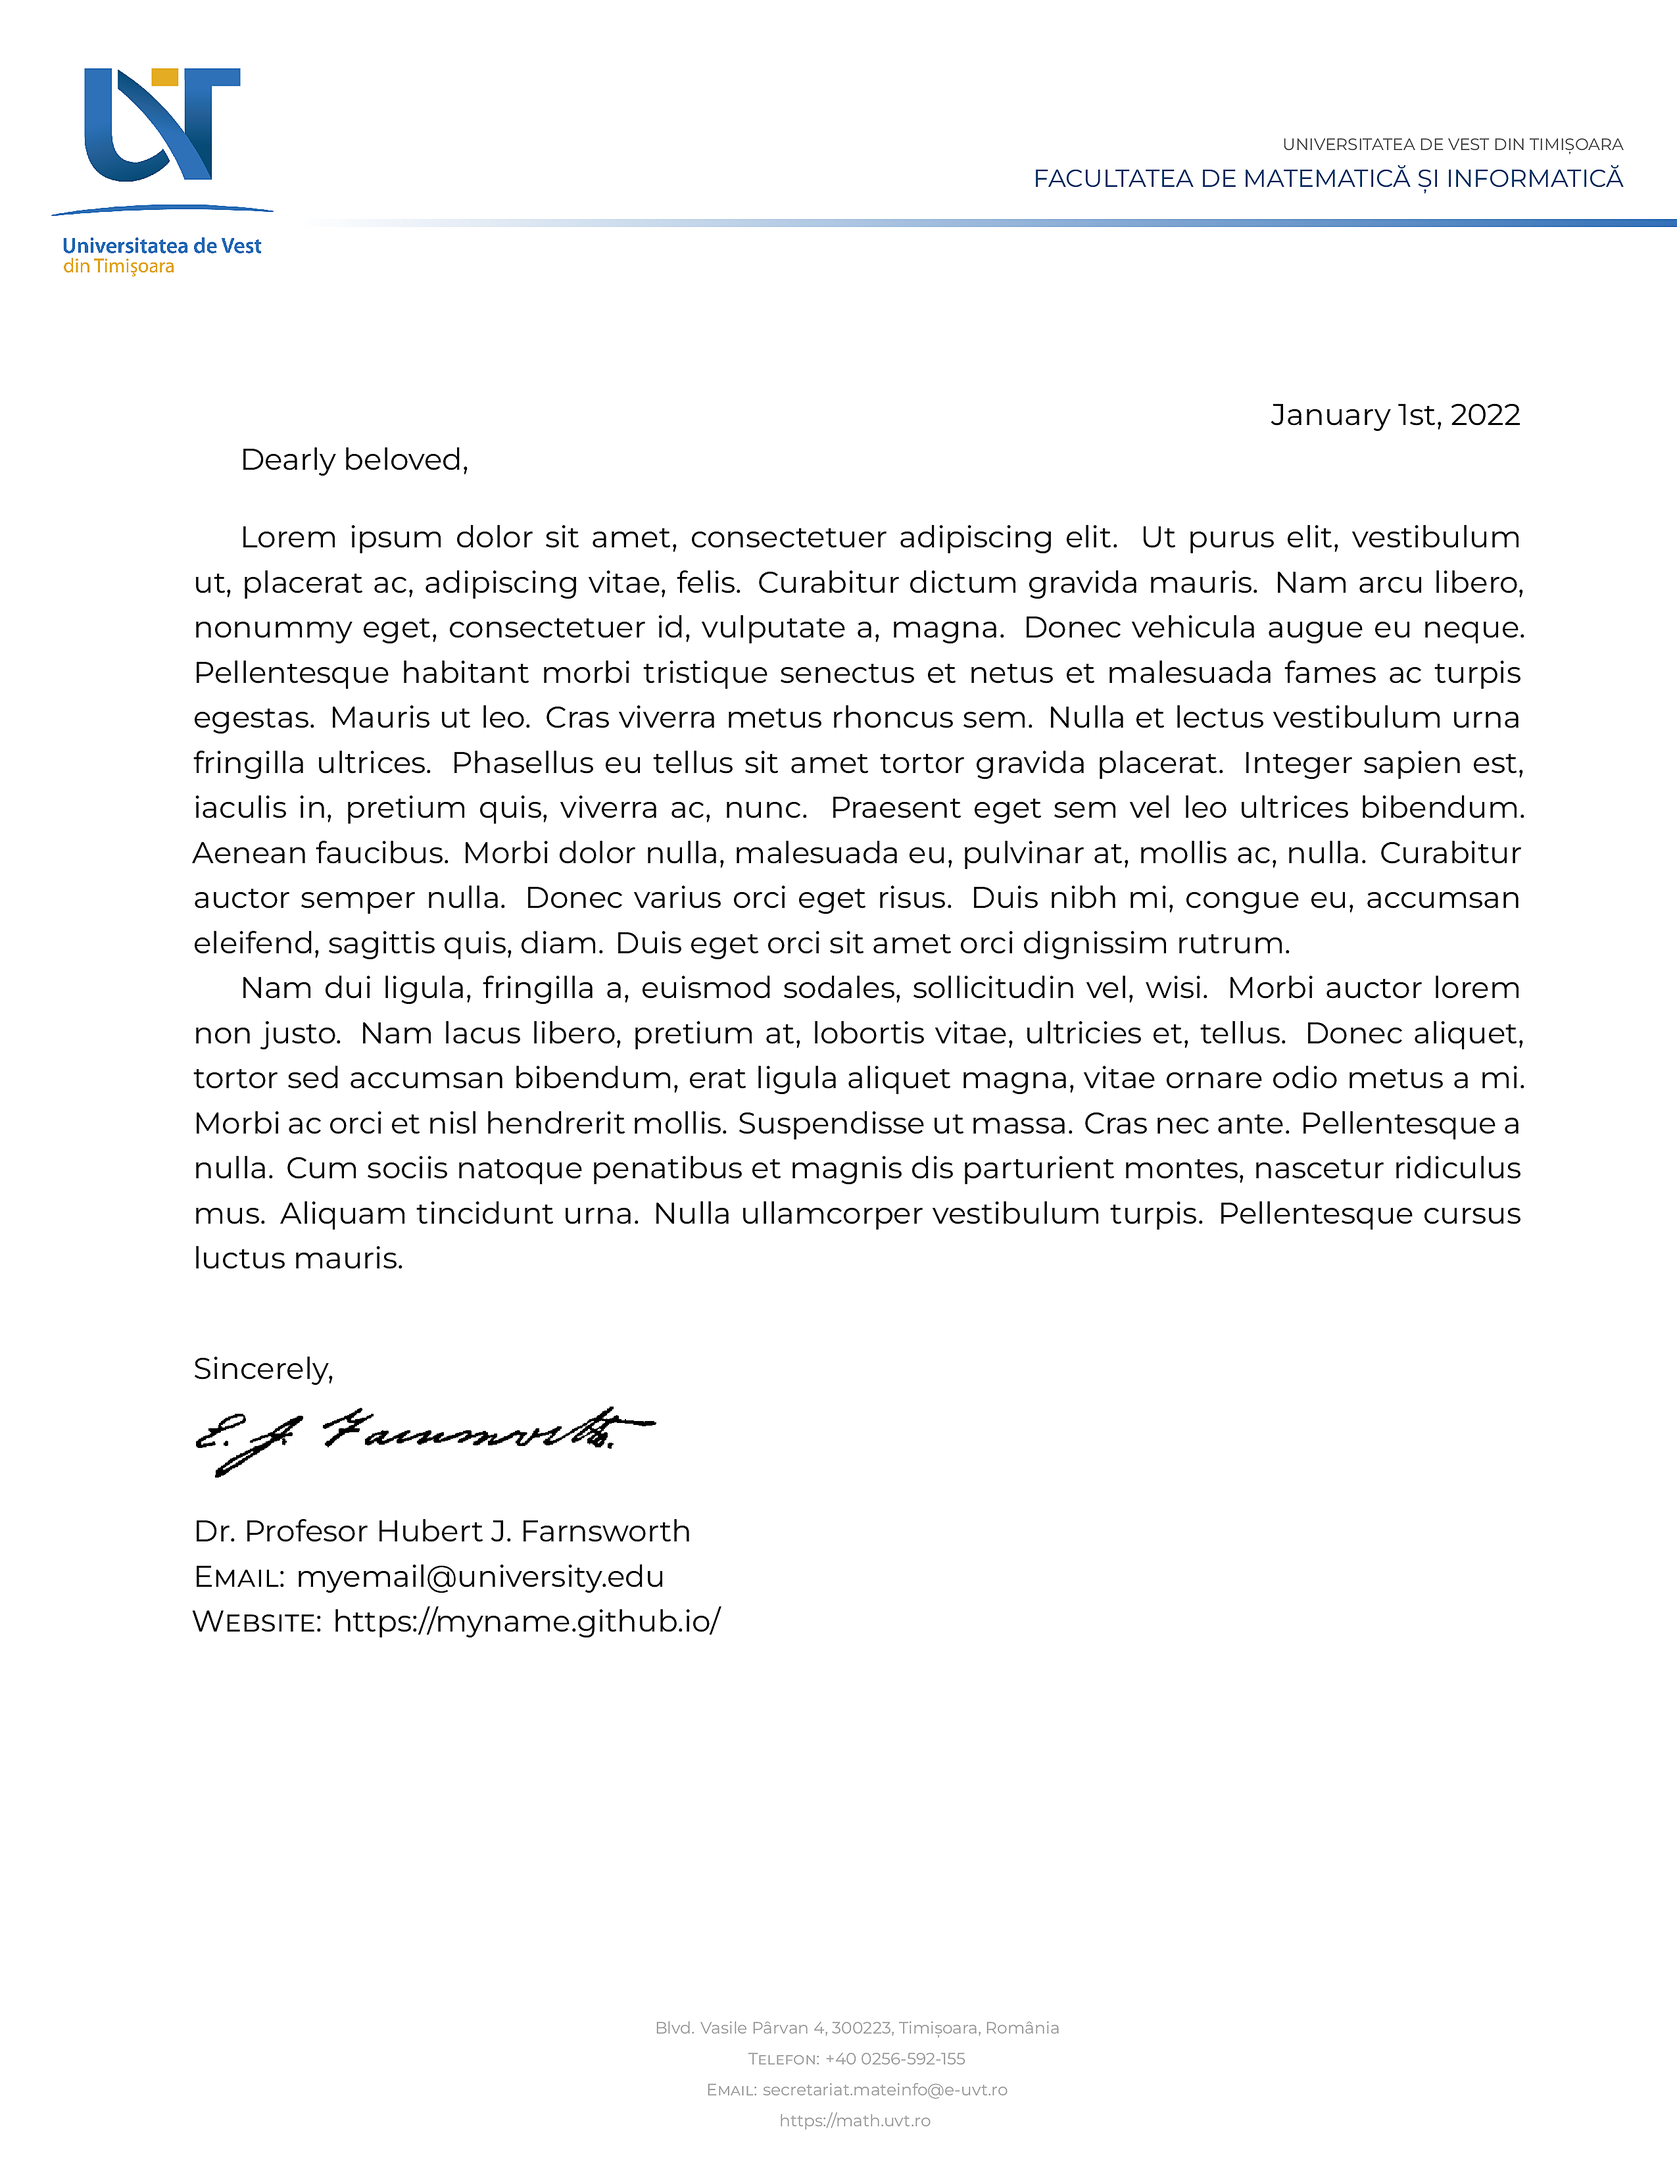
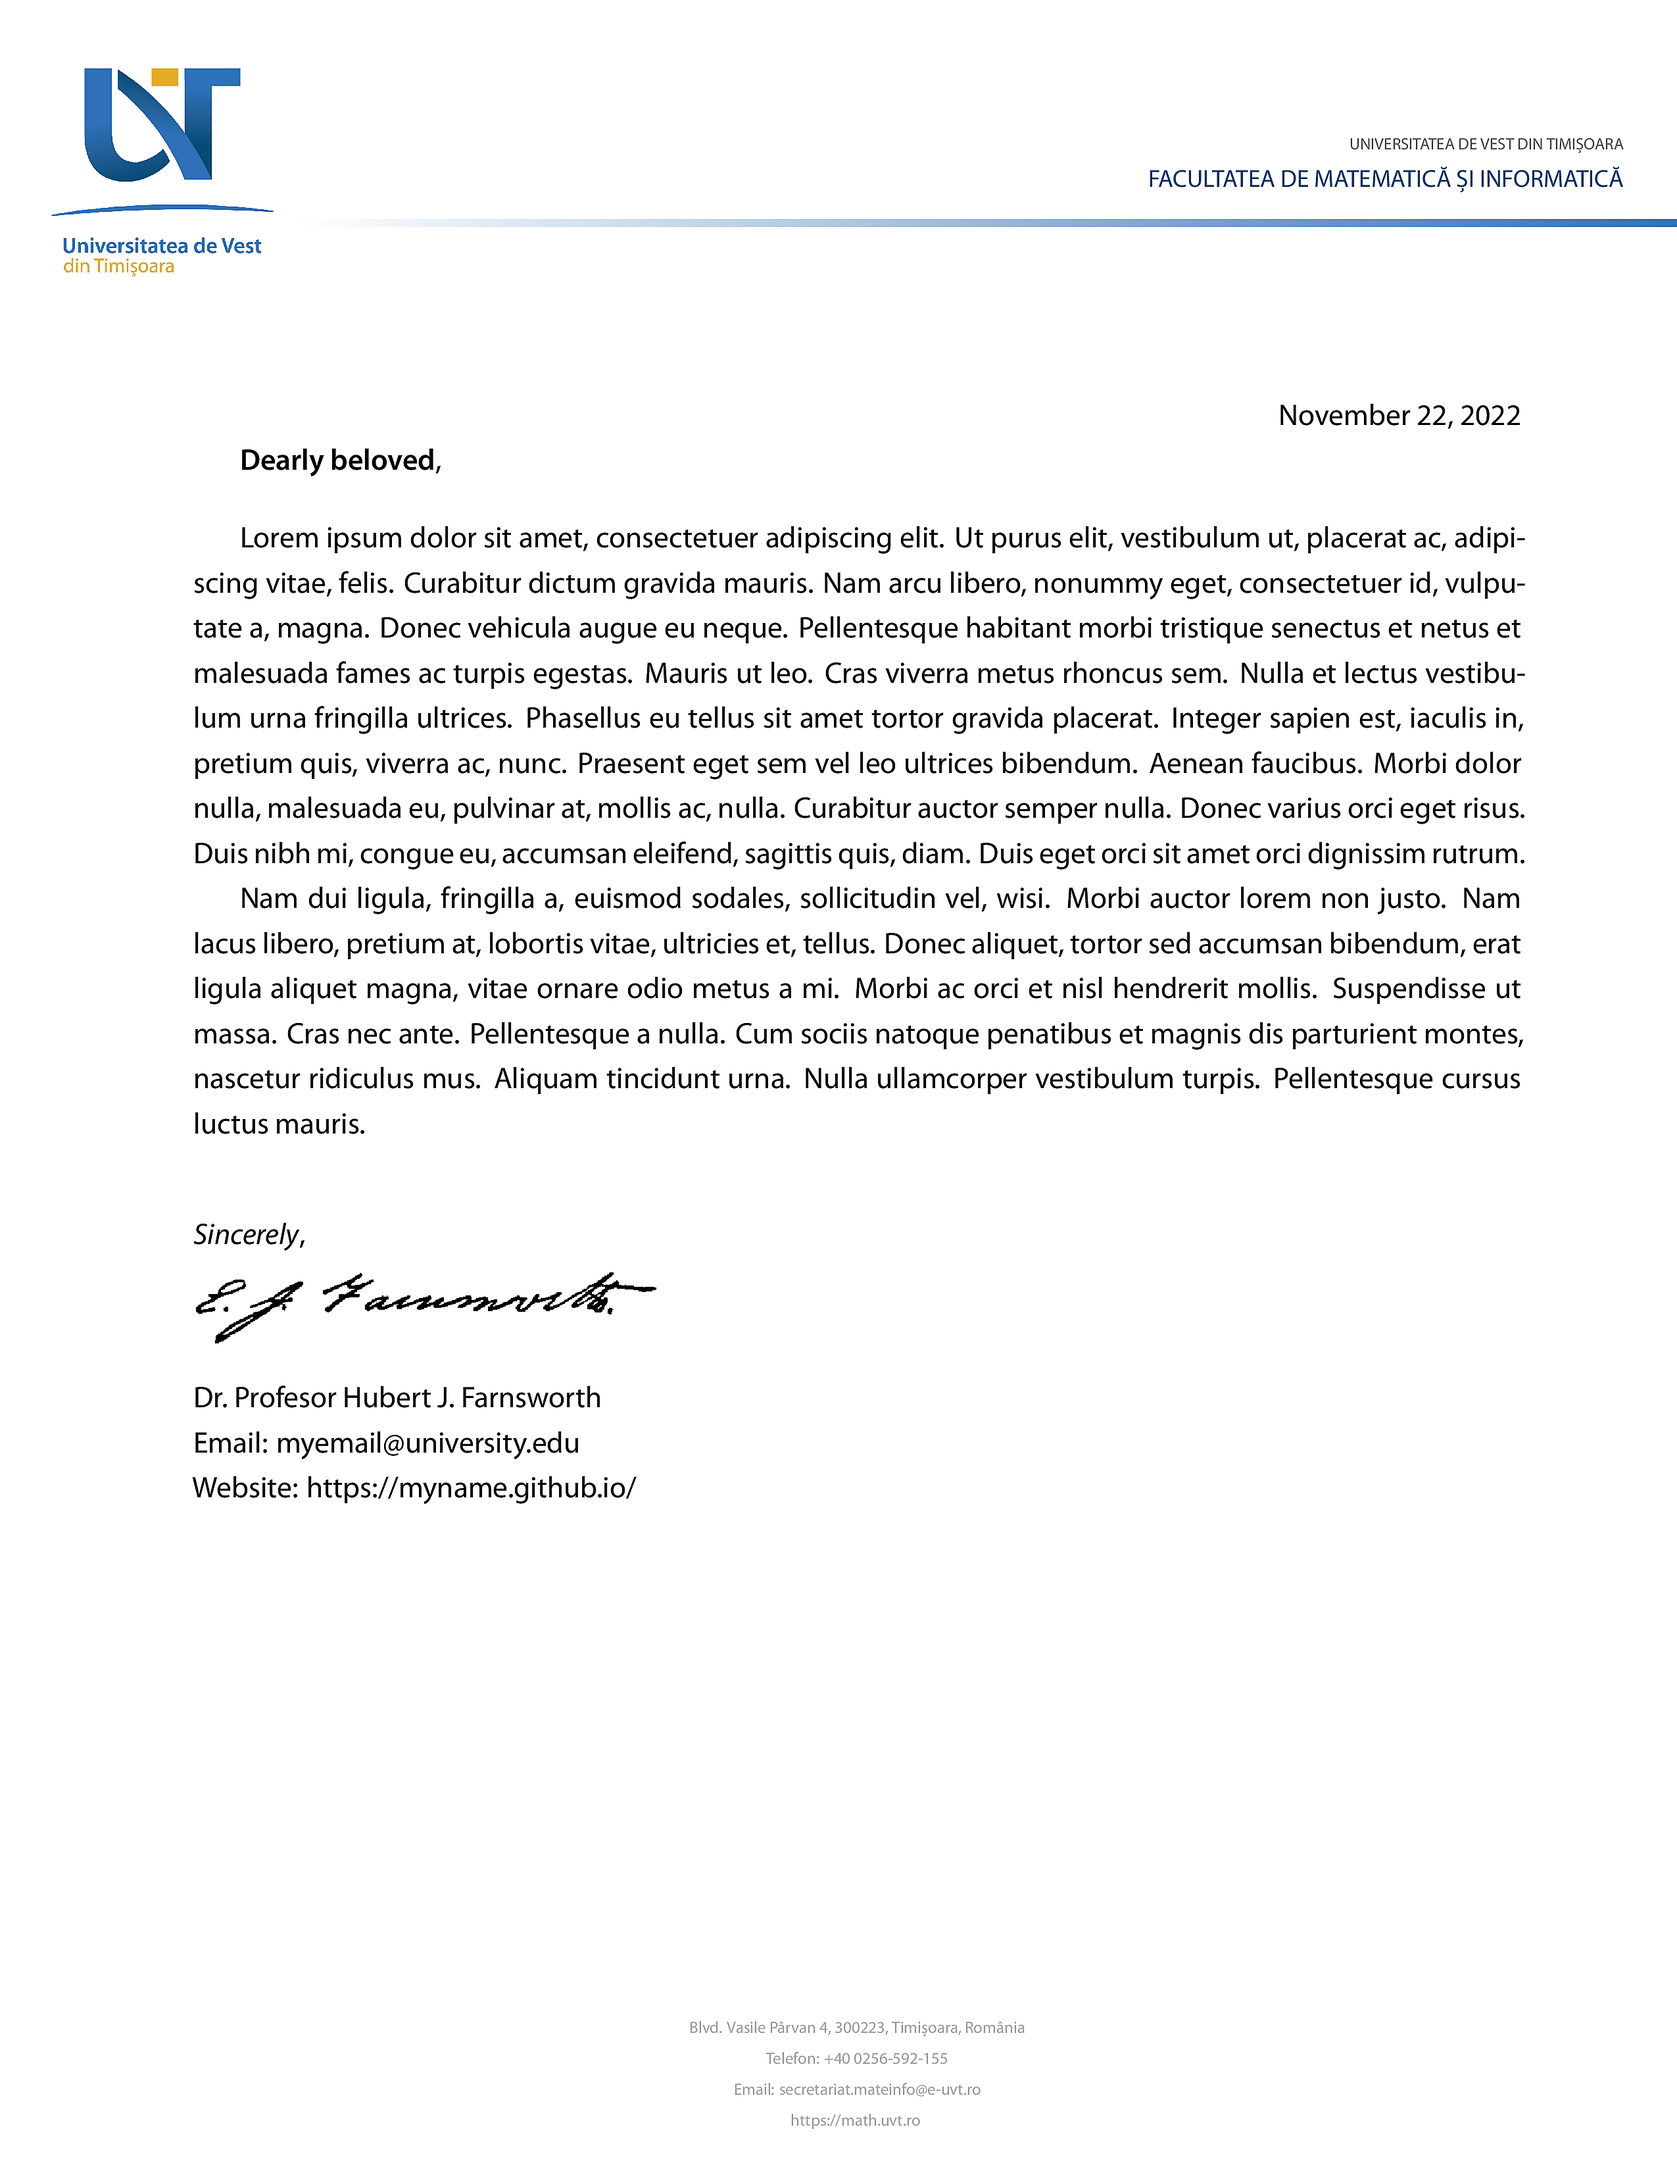
default to Myriad Pro

diff --git a/template.tex b/template.tex
@@ -1,23 +1,8 @@
 \documentclass[11pt]{article}
 
-\usepackage{uvt-letterhead}
+\usepackage[myriadpro]{uvt-letterhead}
 \usepackage{ifxetex}
 \usepackage{lipsum}
-
-% NOTE: montserrat on pdflatex requires texlive-fontsextra
-\ifxetex
-\IfFontExistsTF{Montserrat}{
-\setmainfont{Montserrat}[
-    FontFace={mb}{n}{Font=Montserrat-SemiBold},
-    ItalicFont=Montserrat-Italic,
-    BoldFont=Montserrat-ExtraBold]}{
-    % \usepackage[defaultfam, light, tabular, lining]{montserrat}
-    \usepackage[sc]{mathpazo}
-}
-\else
-    % \usepackage[defaultfam, light, tabular, lining]{montserrat}
-    \usepackage[sc]{mathpazo}
-\fi
 
 % NOTE: toggle the following lines to switch to Romanian
 % \usepackage[romanian]{babel}
@@ -26,7 +11,7 @@
 % department
 \fromdeptfmi
 \logofile{assets/uvt-logo.png}
-\fromdate{January 1st, 2022}
+% \fromdate{January 1\textsuperscript{st}, 2049}
 
 % details
 \fromname{Dr.\ Profesor Hubert J. Farnsworth}
@@ -34,12 +19,12 @@
 \fromweb{https://myname.github.io/}
 
 % closing address
-\closing{Sincerely}
+\closing{\textit{Sincerely}}
 \signaturefile{assets/signature.png}
 
 \begin{document}
 
-Dearly beloved,
+\textbf{Dearly beloved},
 \bigskip
 
 \lipsum[1-2]

diff --git a/README.md b/README.md
@@ -3,6 +3,8 @@
 This is a reproduction of the UVT (West University of Timișoara) letterhead in
 Latex. It uses the UVT [branding](https://www.uvt.ro/en/dcimi/identitate-vizuala/)
 and [replicates this document](https://docs.google.com/document/d/1qyRK3fjVANnRFPRCYI8VLL42Ay-z07ZM/edit).
+A full description of the various parts of the branding can be found in the
+[Official Manual](https://www.uvt.ro/wp-content/uploads/2020/07/MANUAL-IDENTITATE-NEW-WEB-FINAL-2016-.pdf).
 
 This is still a work in progress and the instructions on university branding are
 not very thorough, so feature requests or bug reports to improve this template
@@ -15,11 +17,17 @@ You will need `sig.png` or some other signature image if you want to use one.
 Modify `template.tex` as appropriate and build with `pdflatex` (or `xelatex`
 or `lualatex` for the adventurous).
 
+Note that, by default this uses the [Myriad Pro](https://fonts.adobe.com/fonts/myriad)
+font. This font is available for personal and commercial use and can be easily
+loaded with the `XeLaTeX` or `LuaLaTeX` engines. To get it working on `PDFLaTeX`,
+use the [FontPro](https://github.com/sebschub/FontPro) distribution.
+
 The package defines the following options used as `\usepacakge[opts]{uvt-letterhead}`.
 
 | Option                            | Description                           |
 | :-                                | :-                                    |
 | `doublespacing`                   | Use double spaced paragraphs (default `onehalfspacing`) |
+| `myriadpro`                       | Load the *Myriad Pro* fonts           |
 | `layoutgrid`                      | Adds a debug grid to check alignment  |
 
 The standard branding colors are given below.
